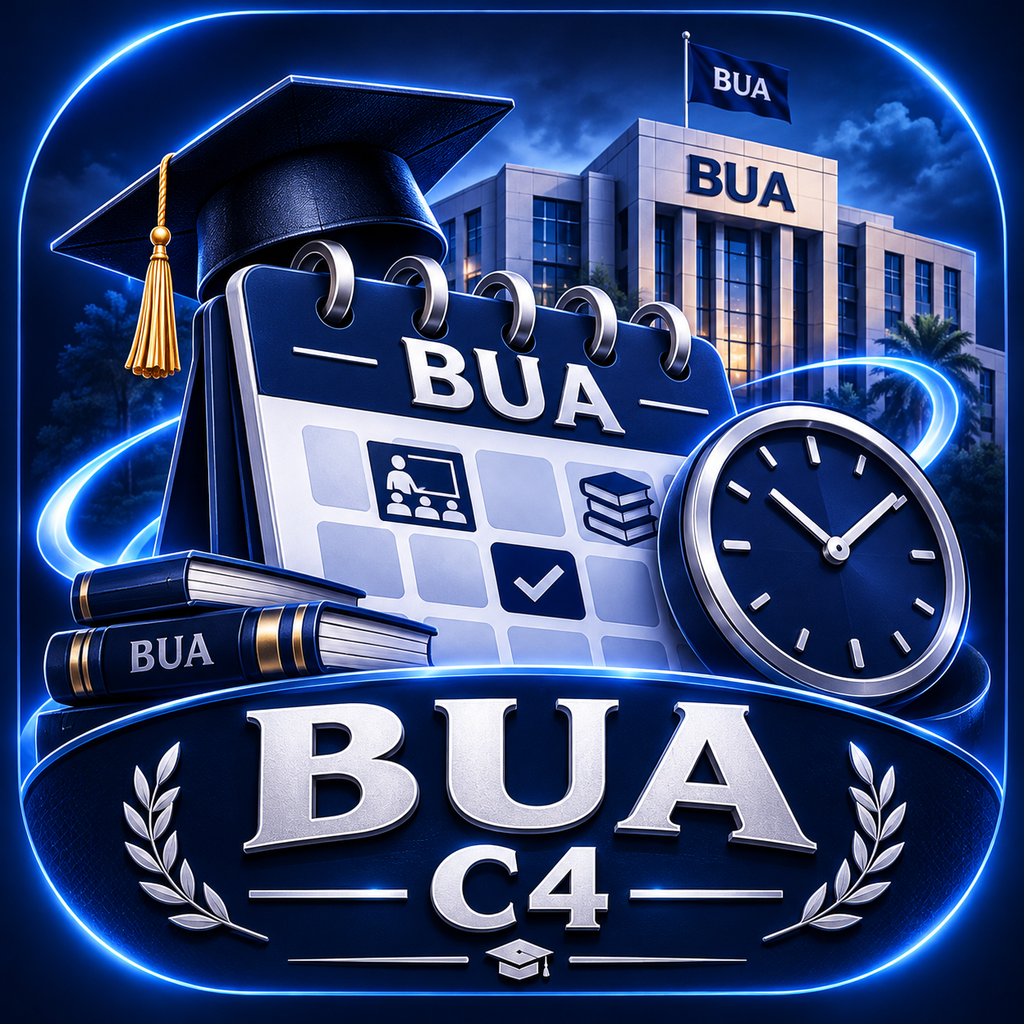
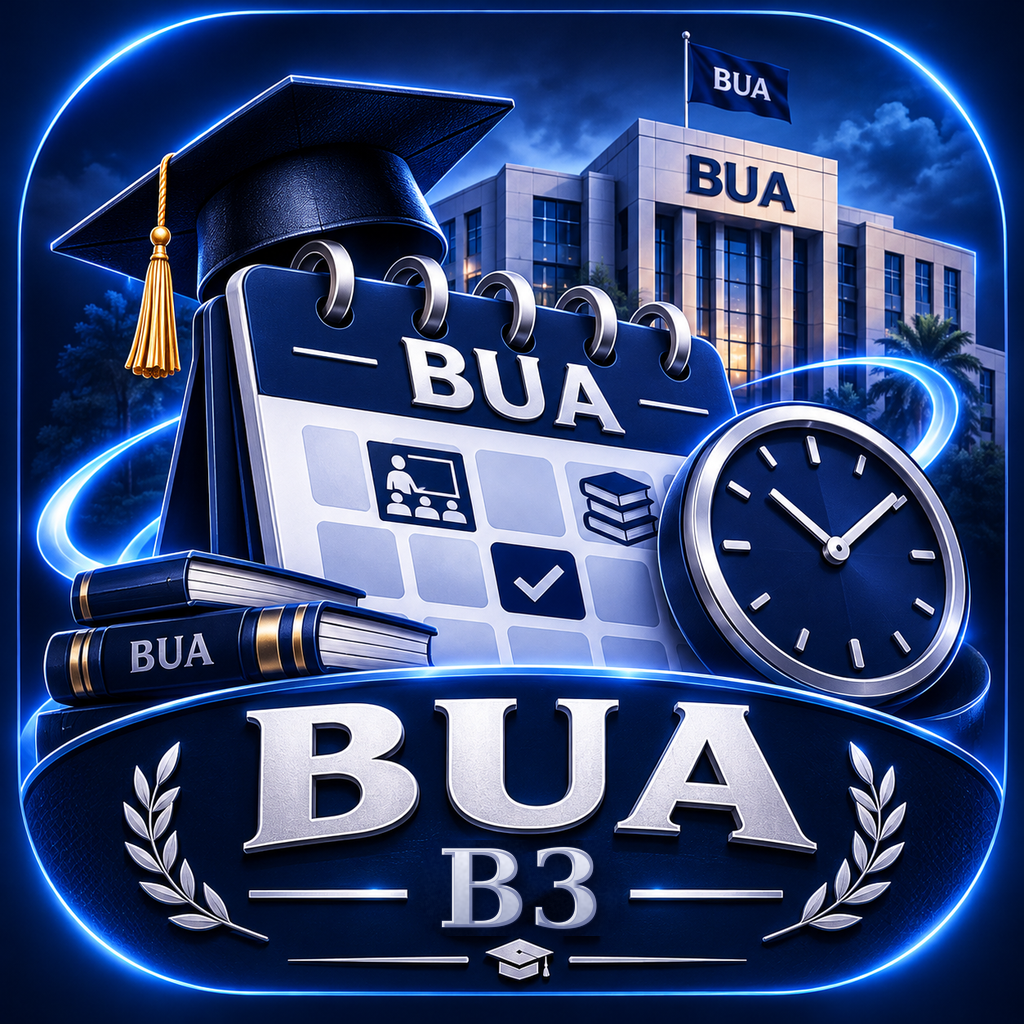
Add files via upload

Changed region(s): [[0.4062, 0.8125, 0.5938, 0.9375]]

diff --git a/main.dart b/main.dart
@@ -21,23 +21,23 @@ class Item {
       this.person, this.room, this.lecture);
 }
 
-// مواعيد C4 فقط (الوقت بنظام 24 ساعة)
+// مواعيد B3 فقط (الوقت بنظام 24 ساعة)
 const List<Item> items = [
   // السبت
-  Item(6, 11, 0, 13, 0, 'Computer Fundamentals', 'م. مورا', 'AI111', false),
-  Item(6, 13, 0, 15, 0, 'Computer Fundamentals', 'د. نبيل', 'AI101', true),
-  Item(6, 15, 0, 16, 0, 'Information Technology', 'د. لؤى', 'AI102', true),
-  Item(6, 16, 0, 17, 0, 'Problem Solving', 'د. ظافر', 'AI102', true),
+  Item(6, 9, 0, 10, 0, 'Information Technology', 'د. لؤى', 'AI102', true),
+  Item(6, 10, 0, 11, 0, 'Problem Solving', 'د. ظافر', 'AI102', true),
+  Item(6, 11, 0, 13, 0, 'Computer Fundamentals', 'د. نبيل', 'AI101', true),
+  Item(6, 13, 0, 15, 0, 'Electronics I', 'م. شهد محمد', 'AI110', false),
   // الأحد
-  Item(7, 13, 0, 15, 0, 'English', 'د. منة', 'AI101', true),
-  Item(7, 15, 0, 17, 0, 'Pure Math', 'د. معتز', 'AI101', true),
+  Item(7, 9, 0, 11, 0, 'Computer Fundamentals', 'م. مورا', 'AI112', false),
+  Item(7, 11, 0, 13, 0, 'English', 'د. منة', 'AI101', true),
+  Item(7, 13, 0, 15, 0, 'Math 0', 'م. رنا', 'AI110', false),
   // الاثنين
-  Item(1, 9, 0, 11, 0, 'Math 0', 'م. مورا', 'AI304', false),
-  Item(1, 11, 0, 13, 0, 'Electronics I', 'د. علاء فرح', 'AI101', true),
+  Item(1, 9, 0, 11, 0, 'Pure Math', 'م. هالة', 'AI207', false),
+  Item(1, 15, 0, 17, 0, 'Electronics I', 'د. علاء فرح', 'AI101', true),
   // الثلاثاء
-  Item(2, 11, 0, 13, 0, 'Electronics I', 'م. هبة ممدوح', 'B303', false),
-  Item(2, 13, 0, 15, 0, 'Math 0', 'د. باسم', 'AI101', true),
-  Item(2, 15, 0, 17, 0, 'Pure Math', 'م. مونيكا', 'AI110', false),
+  Item(2, 9, 0, 11, 0, 'Pure Math', 'د. معتز', 'AI102', true),
+  Item(2, 11, 0, 13, 0, 'Math 0', 'د. باسم', 'AI102', true),
 ];
 
 const List<int> dayOrder = [6, 7, 1, 2];
@@ -185,7 +185,7 @@ Future<void> scheduleAll() async {
 }
 
 Future<void> testNotification() async {
-  const body = 'د. نبيل • القاعة AI101 • 1:00 م';
+  const body = 'د. نبيل • القاعة AI101 • 11:00 ص';
   await plugin.show(
       999, 'تجربة: محاضرة بعد 5 دقايق', body, buildDetails(body));
 }
@@ -239,7 +239,7 @@ class MyApp extends StatelessWidget {
   Widget build(BuildContext context) {
     return MaterialApp(
       debugShowCheckedModeBanner: false,
-      title: 'جدول C4',
+      title: 'جدول B3',
       theme: ThemeData(useMaterial3: true, colorSchemeSeed: kNavy),
       builder: (context, child) =>
           Directionality(textDirection: TextDirection.rtl, child: child!),
@@ -318,7 +318,7 @@ class _HomePageState extends State<HomePage> {
         child: Row(
           crossAxisAlignment: CrossAxisAlignment.center,
           children: [
-            const Text('جدول C4',
+            const Text('جدول B3',
                 style: TextStyle(
                   color: Colors.white,
                   fontSize: 40,

diff --git a/patch.py b/patch.py
@@ -29,7 +29,8 @@ recv = '''<receiver android:exported="false" android:name="com.dexterous.flutter
         </receiver>
     '''
 s = s.replace('</application>', recv + '</application>', 1)
-s = s.replace('android:label="c4_schedule"', 'android:label="جدول C4"')
+import re
+s = re.sub(r'android:label="[^"]*"', 'android:label="جدول B3"', s, count=1)
 open(p, 'w', encoding='utf-8').write(s)
 
 # 2) تفعيل desugaring اللي مكتبة الإشعارات محتاجاها
